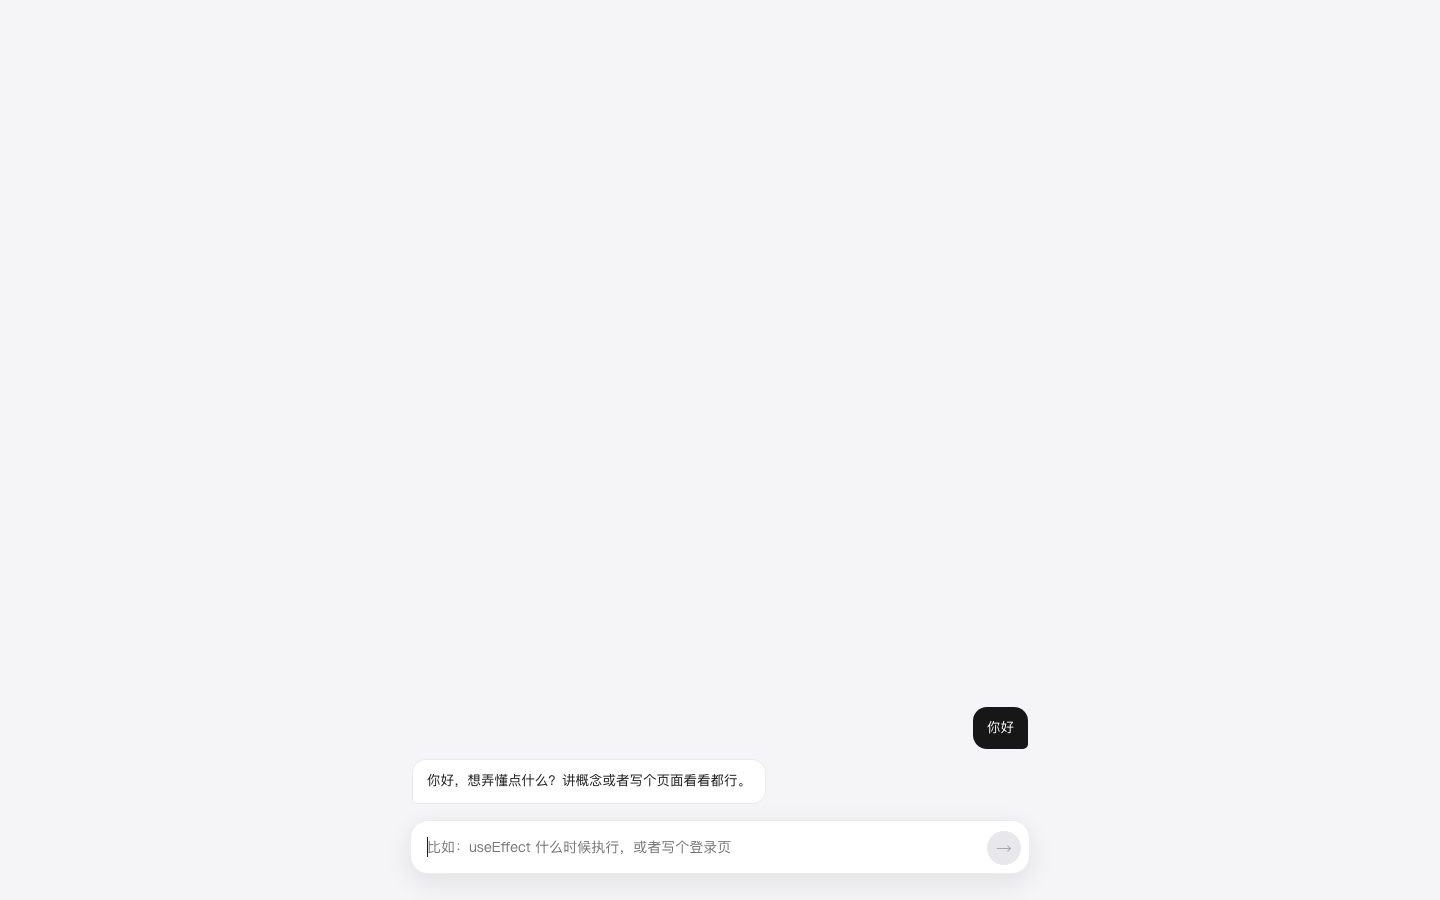
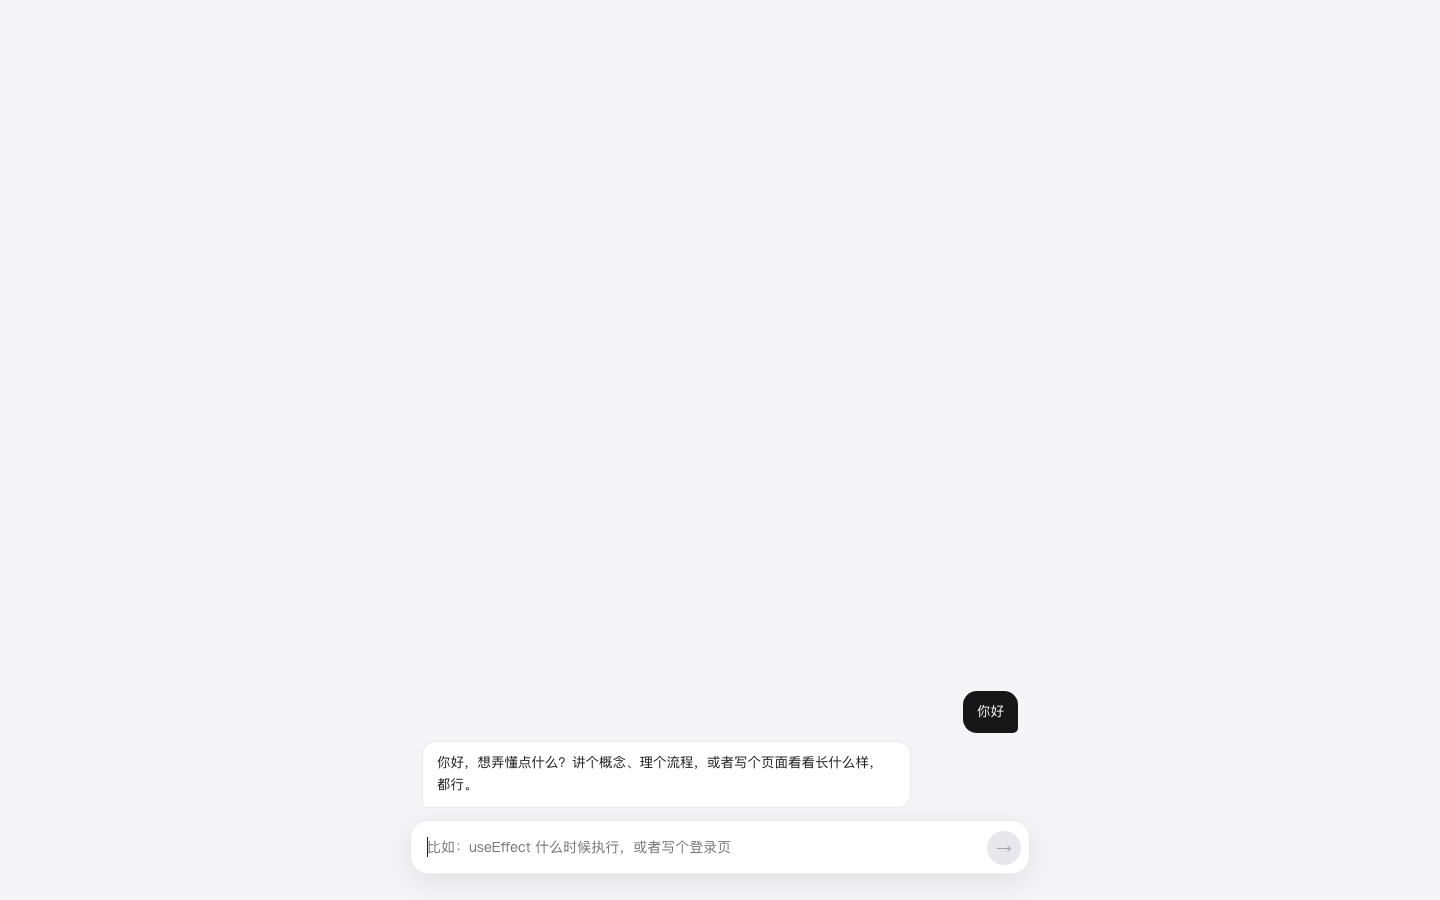
style: 讲解页对话挪到右侧面板
底部横条换成右侧 306px 的对话面板，和左侧文件列表对称：
三栏 = 文件 / 代码 / 对话。

- 对话面板独立滚动，输入框钉在面板底部
- 模型只回话时气泡显示在面板里
- 改写后加一行灰色提示（第一次生成不显示，只有改写才提示）

Changed region(s): [[0.2812, 0.84, 0.5938, 0.8711], [0.6562, 0.7467, 0.7188, 0.84]]

diff --git a/web/src/App.tsx b/web/src/App.tsx
@@ -29,7 +29,7 @@ type Lesson = {
   question?: string;
 };
 
-type Msg = { role: "user" | "assistant"; text: string };
+type Msg = { role: "user" | "assistant" | "meta"; text: string };
 
 const EMPTY: Snapshot = {
   buffers: {},
@@ -79,7 +79,6 @@ export default function App() {
 
   const [question, setQuestion] = useState("");
   const [messages, setMessages] = useState<Msg[]>([]);
-  const [reply, setReply] = useState<string | null>(null);
   const [lesson, setLesson] = useState<Lesson | null>(null);
   const [history, setHistory] = useState<Lesson[]>(() => {
     try {
@@ -158,10 +157,10 @@ export default function App() {
     const value = text.trim();
     if (!value || loading) return;
 
+    const revising = lesson !== null;
     const next: Msg[] = [...messages, { role: "user", text: value }];
     setMessages(next);
     setQuestion("");
-    setReply(null);
     setError(null);
     setLoading(true);
 
@@ -179,12 +178,16 @@ export default function App() {
 
       if (res.action === "reply") {
         setMessages([...next, { role: "assistant", text: res.text }]);
-        setReply(res.text);
       } else {
         const data: Lesson = { ...res.lesson, question: value };
         setLesson(data);
         play(data);
         remember(data);
+        setMessages(
+          revising
+            ? [...next, { role: "meta", text: `重写了一版，${data.lines} 行` }]
+            : next
+        );
       }
     } catch (e) {
       const msg = String(e).replace(/^Error:\s*/, "");
@@ -200,7 +203,6 @@ export default function App() {
     setLesson(null);
     setSnap(EMPTY);
     setMessages([]);
-    setReply(null);
     setError(null);
     setPaused(false);
   };
@@ -480,13 +482,24 @@ export default function App() {
             </div>
           </div>
         </section>
-      </main>
 
-      <footer className="talk">
-        {reply && <div className="talk-reply">{reply}</div>}
-        {error && <div className="talk-error">{error}</div>}
-        {composer}
-      </footer>
+        <aside className="chat">
+          <div className="chat-head">对话</div>
+          <div className="chat-log">
+            {messages.length === 0 && (
+              <div className="chat-empty">说哪里不对，或者问这是什么意思。</div>
+            )}
+            {messages.map((m, i) => (
+              <div key={i} className={`bubble ${m.role}`}>
+                {m.text}
+              </div>
+            ))}
+            {loading && <div className="bubble assistant typing">…</div>}
+            {error && <div className="bubble error">{error}</div>}
+          </div>
+          <div className="chat-foot">{composer}</div>
+        </aside>
+      </main>
     </div>
   );
 }

diff --git a/web/src/styles.css b/web/src/styles.css
@@ -906,3 +906,103 @@ button {
   max-height: 58vh;
   padding-top: 0;
 }
+
+/* ---- 讲解页：右侧对话面板 ---- */
+.workspace {
+  grid-template-columns: 190px minmax(0, 1fr) 306px;
+}
+
+.chat {
+  display: flex;
+  flex-direction: column;
+  min-height: 0;
+  background: var(--card);
+  border: 1px solid var(--line);
+  border-radius: 12px;
+  box-shadow: var(--shadow);
+  overflow: hidden;
+}
+
+.chat-head {
+  flex: 0 0 auto;
+  padding: 11px 14px;
+  font-size: 10.5px;
+  letter-spacing: 0.8px;
+  text-transform: uppercase;
+  color: var(--muted);
+  border-bottom: 1px solid var(--line-soft);
+}
+
+.chat-log {
+  flex: 1;
+  min-height: 0;
+  overflow-y: auto;
+  display: flex;
+  flex-direction: column;
+  gap: 8px;
+  padding: 12px;
+  padding-top: 12px;
+  max-height: none;
+}
+
+.chat-empty {
+  font-size: 12px;
+  line-height: 1.7;
+  color: var(--faint);
+}
+
+.chat .bubble {
+  max-width: 92%;
+  font-size: 12.5px;
+  padding: 8px 11px;
+  border-radius: 12px;
+}
+
+.chat .bubble.meta {
+  align-self: center;
+  max-width: 100%;
+  background: none;
+  border: 0;
+  color: var(--faint);
+  font-size: 11.5px;
+  padding: 2px 0;
+  text-align: center;
+}
+
+.chat .bubble.error {
+  align-self: stretch;
+  background: #fdf0ef;
+  border: 1px solid #f3d6d3;
+  color: #b3261e;
+}
+
+.chat-foot {
+  flex: 0 0 auto;
+  padding: 10px;
+  border-top: 1px solid var(--line-soft);
+}
+
+.chat-foot .composer {
+  padding: 5px 5px 5px 12px;
+  border-radius: 14px;
+  background: #fafafa;
+  box-shadow: none;
+}
+
+.chat-foot .composer textarea {
+  font-size: 12.5px;
+  max-height: 88px;
+}
+
+.chat-foot .composer-send {
+  width: 28px;
+  height: 28px;
+  flex: 0 0 28px;
+  font-size: 13px;
+}
+
+@media (max-width: 1100px) {
+  .workspace {
+    grid-template-columns: 150px minmax(0, 1fr) 260px;
+  }
+}
